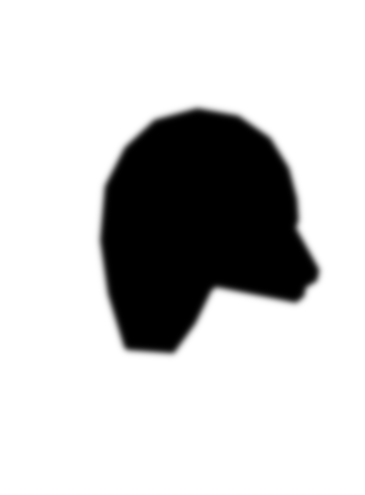
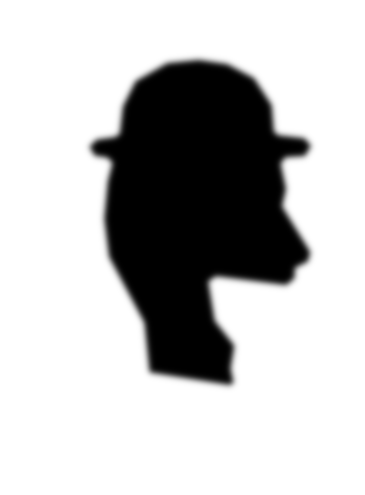
Collage film: R2 work in progress (vintage-print hand, bowler-hat puppet, hero sunburst, engines collage layer, map network)
Claude-Session: https://claude.ai/code/session_01317q5h3EP1nL4g2QG1mVkk

Changed region(s): [[0.2411, 0.0909, 0.9041, 0.7879]]

diff --git a/collage/film/js/main.js b/collage/film/js/main.js
@@ -788,7 +788,7 @@ function drawMatching(t) {
         const tg = targets[(bi * 3 + m * 5) % targets.length];
         const src = [b.x + (hash(bi, m) - 0.5) * 20, b.y - 34 * b.s / 0.38];
         const tS = C.burst + (k % 4) / 12;
-        drawString(src, tg, tS, tS + 2 / 12, t, { w: 2.4, amp: 9, sag: 0.03, color: k % 5 === 0 ? '#e07800' : '#0587c4' });
+        drawString(src, tg, tS, tS + 2 / 12, t, { w: 3.0, amp: 9, sag: 0.03, color: k % 5 === 0 ? '#e07800' : '#0587c4' });
         k++;
       }
     });
@@ -821,6 +821,23 @@ function drawCrowd(t) {
   const dT = C.crowd - 1 / 12;
   const dk = Math.round((t - dT) * 12);
   const ds = dk <= 0 ? 0.88 : dk === 1 ? 1.05 : 1;
+  // HERO: constructivist cut-paper sunburst slapped in behind the crowd on the burst, turning on the 12 fps grid
+  if (t >= C.burst - 1 / 12) {
+    const k = Math.round((t - C.burst) * 12);
+    const sc = k < 0 ? 0.55 : k === 0 ? 1.12 : k === 1 ? 0.97 : 1;
+    const turn = Math.max(0, k) * 0.6 * D2R;
+    ctx.save();
+    ctx.translate(CROWD_C[0], CROWD_C[1] + 30); ctx.rotate(turn); ctx.scale(sc, sc);
+    for (let i = 0; i < 14; i++) {
+      const a0 = i / 14 * Math.PI * 2, w = 0.085 + hash(i, 71) * 0.04;
+      const r0 = 200, r1 = 470 + hash(i, 72) * 120;
+      ctx.fillStyle = 'rgba(20,12,4,0.28)';
+      ctx.beginPath(); ctx.moveTo(Math.cos(a0 - w) * r0 + 8, Math.sin(a0 - w) * r0 + 12); ctx.lineTo(Math.cos(a0) * r1 + 8, Math.sin(a0) * r1 + 12); ctx.lineTo(Math.cos(a0 + w) * r0 + 8, Math.sin(a0 + w) * r0 + 12); ctx.fill();
+      ctx.fillStyle = i % 2 ? BLUE : '#f2ede2';
+      ctx.beginPath(); ctx.moveTo(Math.cos(a0 - w) * r0, Math.sin(a0 - w) * r0); ctx.lineTo(Math.cos(a0) * r1, Math.sin(a0) * r1); ctx.lineTo(Math.cos(a0 + w) * r0, Math.sin(a0 + w) * r0); ctx.fill();
+    }
+    ctx.restore();
+  }
   drawPiece('disc_orange', CROWD_C[0], CROWD_C[1] + 30, 0, 1.25 * ds, dk <= 0 ? 0.4 : 0);
   BUSTS.forEach((b, i) => {
     const st = slap(b.T, t, [0, -260], 2);
@@ -864,7 +881,7 @@ function drawPuppet(t) {
     ctx.drawImage(im, ox, oy);
     // paddle arm in front: shoulder + elbow joints (puppet rotation), the paddle goes up on the burst
     ctx.save();
-    ctx.translate(ox + 440 + 21, oy + 745 + 21);
+    ctx.translate(ox + L.shoulder[0], oy + L.shoulder[1]);
     ctx.rotate(sh * D2R);
     const au = IMG.pup_arm_u, LU = LAY.pup_arm_u;
     ctx.drawImage(au, -LU.joint[0], -LU.joint[1]);
@@ -922,6 +939,12 @@ const CARDS = [
 ];
 function drawEngines(t) {
   ctx.drawImage(IMG.page_news, -140, -80);
+  // background collage layer: newsprint scraps + constructivist blocks (already on the page under the rip)
+  drawPiece('news1', 120, 980, -8 * D2R, 0.9);
+  drawPiece('news2', 1840, 120, 6 * D2R, 0.85);
+  drawPiece('disc_orange', 1640, 860, 0, 0.95);
+  drawPiece('blk_black', 1460, 236, -4 * D2R, 0.62);
+  drawPiece('news0', 760, 930, 5 * D2R, 0.6);
   // a torn blue seam down the middle: the two engines
   drawPiece('blk_blue', 960, 540, 90 * D2R + 1.5 * D2R, 0.85, 0, 1);
   // LEFT: Shenzhen map slapped from the left, blue pins pop across it, a network grows between them
@@ -941,7 +964,9 @@ function drawEngines(t) {
       ctx.save();
       for (let i = 1; i < nP; i++) {
         const tp = lerp(p0, p1, i / (nP - 1));
-        const a = pins[order[i]], b = pins[order[(i * 7) % i]];
+        const a = pins[order[i]];
+        let b = pins[0], bd = 1e9;
+        for (let q = 0; q < i; q++) { const d = Math.hypot(pins[q][0] - a[0], pins[q][1] - a[1]); if (d < bd) { bd = d; b = pins[q]; } }
         drawString(b, a, Math.round(tp * 12) / 12, Math.round(tp * 12) / 12 + 1 / 12, t, { w: 2, amp: 5, sag: 0.02 });
       }
       ctx.restore();
@@ -965,7 +990,7 @@ function drawEngines(t) {
     ctx.restore();
   }
   // RIGHT: headline 全网自媒体矩阵 (ransom), paper phone cards dealt like playing cards
-  const head = [...'全网自媒体矩阵'].map((ch, i) => ({ ch, style: ['black', 'white', 'blue', 'white', 'news', 'orange', 'white'][i], size: 92,
+  const head = [...'全网自媒体矩阵'].map((ch, i) => ({ ch, style: ['white', 'news', 'blue', 'white', 'orange', 'white', 'news'][i], size: 92,
     x: 1100 + i * 106, y: 232 + (i % 2 ? 12 : -6), rot: (hash(i, 51) - 0.5) * 12, seed: 900 + i }));
   ransom(head, t, { t0: C.matrix, seed: 950 });
   CARDS.forEach((c, i) => drawCard(c, i, t));

diff --git a/collage/film/audio.py b/collage/film/audio.py
@@ -97,7 +97,7 @@ S(sfx.boing(pitch=1.2, dur=0.45), C['craft'][1] + 1 / 12, -9, 0.25, hit=False)
 # constructivist band tears in, phrases slam, avalanche of thumbnails, 上千件 chips, 有货
 S(sfx.tape_rip(0.32, seed=90), C['band'], 0, -0.2)
 for i, t in enumerate(C['phrases']):
-    S(sfx.text_hit('slam', seed=91 + i), t, -1, [-0.3, 0.0, 0.3][i])
+    S(sfx.text_hit('slam', seed=91 + i), t, 1, [-0.3, 0.0, 0.3][i])
 S(sfx.paper('rustle', 0.5, seed=95), C['thumbs'][0], -5, 0.4)
 for k in range(6):
     S(sfx.sticker_slap(seed=96 + k), C['thumbs'][0] + k / 12, -12 + k * 0.5, 0.6 - k * 0.2, hit=False)
@@ -138,7 +138,7 @@ S(drums.crash(0.9).loud(-18), C['burst'], -1, 0.0, hit=False)
 S(sfx.impact('punch', seed=210), C['burst'], 0, 0.0, hit=False)
 S(sfx.sub_drop(0.8), C['burst'], -6, 0.0, hit=False)
 for i, t in enumerate(C['mini_stamps']):
-    S(sfx.stamp('rubber', seed=220 + i), t, -4 + i * 0.5, [-0.3, 0.5, 0.6, 0.7][i])
+    S(sfx.stamp('rubber', seed=220 + i), t, -1 + i * 0.5, [-0.3, 0.5, 0.6, 0.7][i])
 # the big-headed buyer talks: muted-horn blips on the jaw flaps (the puppet's voice)
 horn = m.track('horn', level=-26, sends={'plate': -12}, lp=2400, group='sfx')
 for t, n in zip(C['jaw'], ['C5', 'E5', 'D5', 'G4']):
@@ -156,14 +156,14 @@ s = sfx.whoosh(0.4, 'swish', direction=-1, peak=0.7, seed=233)
 S(s, 12.3, -10, -0.3, hit=False)
 
 # ------------------------------------------------------------------ TWO ENGINES
-S(sfx.tape_rip(0.55, seed=300), C['rip'], 3, 0.0)
+S(sfx.tape_rip(0.4, seed=300), C['rip'], 3, 0.0)
 S(sfx.paper('crumple', 0.35, seed=301), C['rip'] + 0.05, -6, 0.0, hit=False)
 s = sfx.whoosh(0.45, 'air', direction=-1, peak=0.5, seed=302)
 S(s, C['rip'] + 0.2, -7, -0.6, hit=False)
 s = sfx.whoosh(0.45, 'air', direction=1, peak=0.5, seed=303)
 S(s, C['rip'] + 0.22, -7, 0.6, hit=False)
 hand_in(C['map'], pan=-0.5, seed=304)
-paper_slap(C['map'], gain=1, pan=-0.45, body=-5, seed=305)
+paper_slap(C['map'], gain=3, pan=-0.45, body=-4, seed=305)
 p0, p1 = C['map_pins']
 for i in range(16):
     tt = round((p0 + (p1 - p0) * i / 15) * 12) / 12
